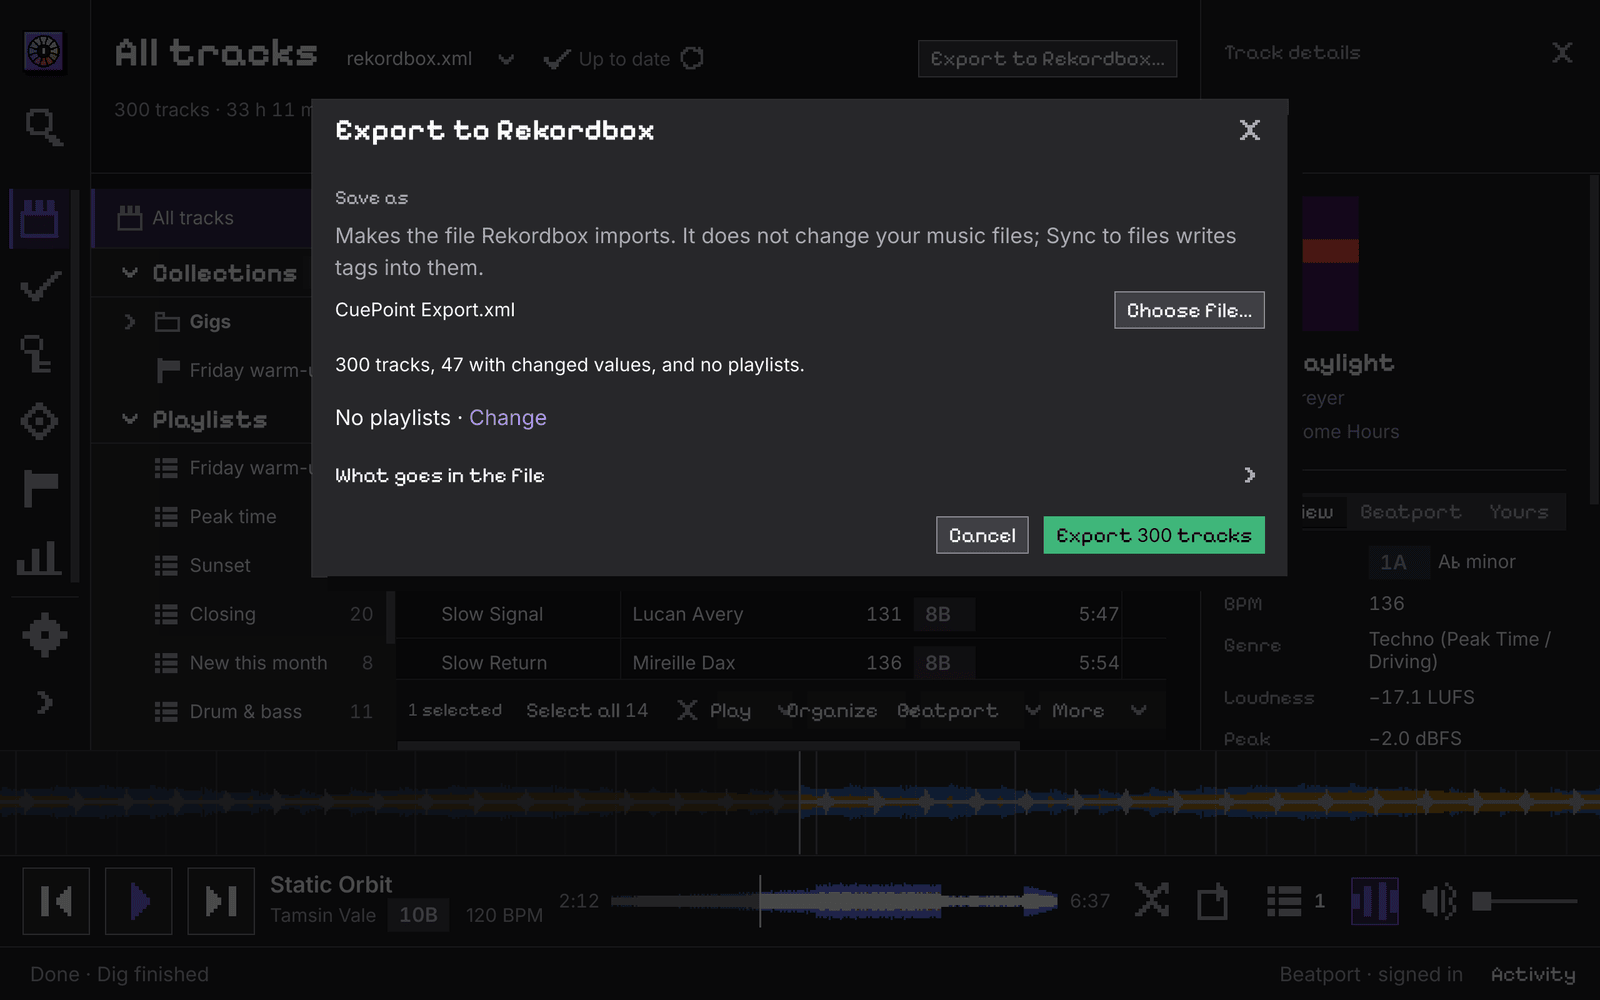
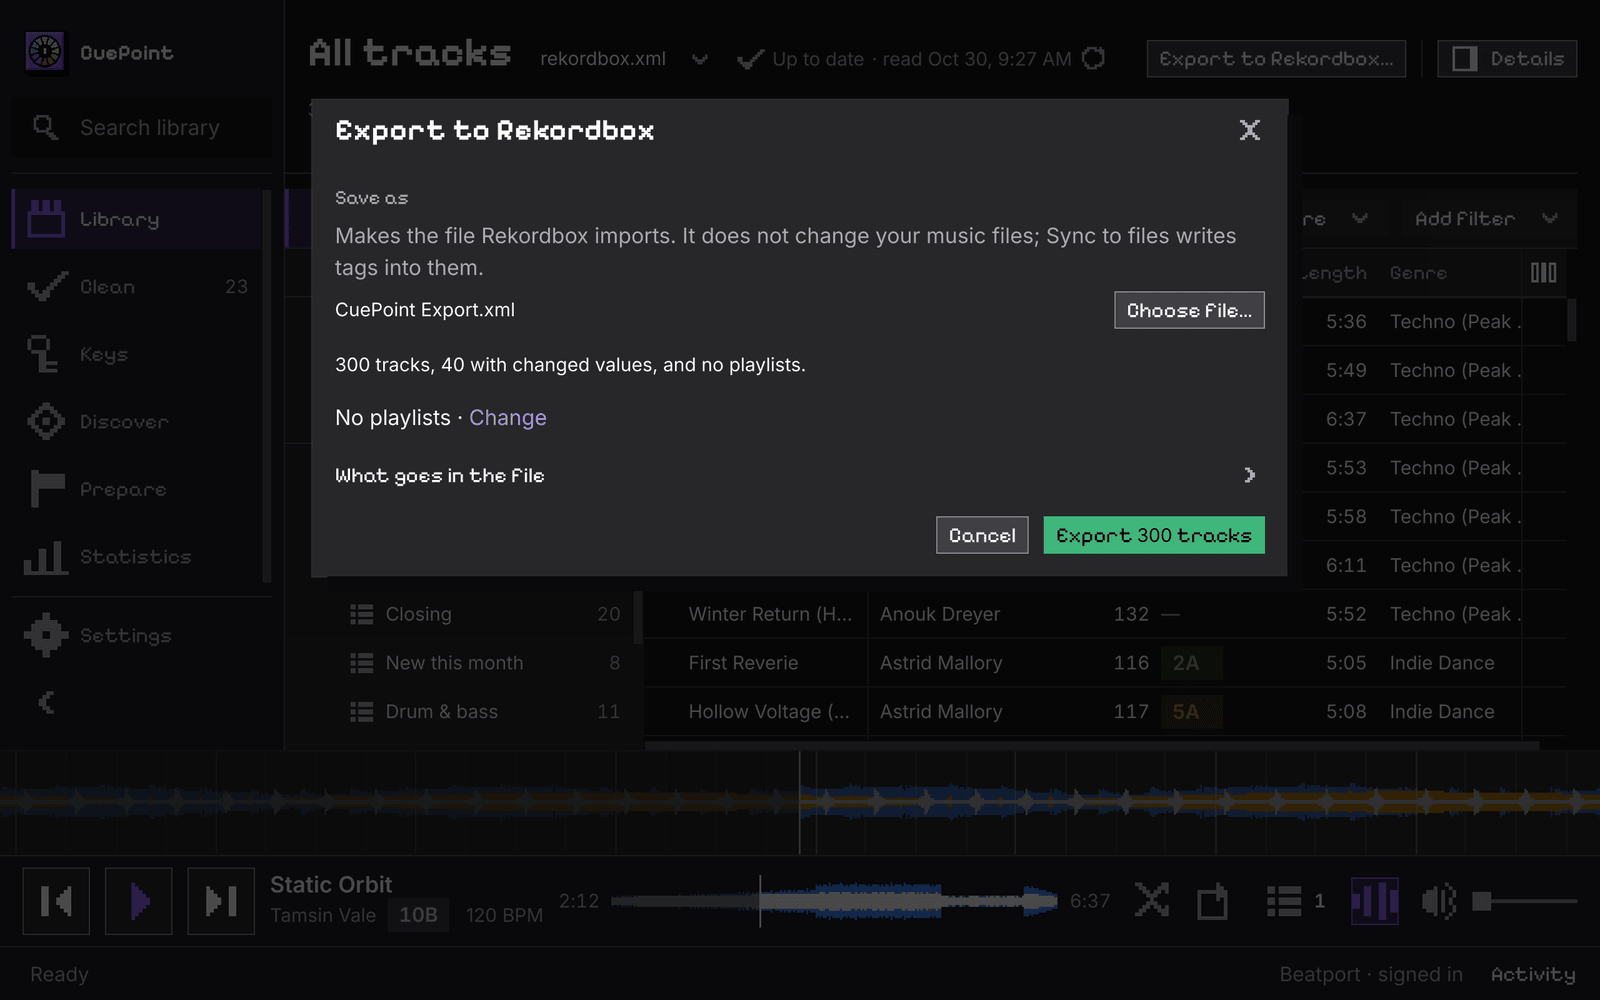
docs: retake the README pictures with Track details closed
Beside Track details, at the default window width, the selection bar squeezes its
four menu buttons into each other. The Library clip now plays a track and opens the
Camelot wheel from the player bar, and the Export and social preview pictures are
taken with the panel closed.

diff --git a/apps/desktop-electron/e2e/capture/readme.spec.ts b/apps/desktop-electron/e2e/capture/readme.spec.ts
@@ -465,6 +465,10 @@ test.describe("the README's pictures", () => {
       const grid = window.getByRole("grid", { name: "Library tracks" });
       const rows = grid.locator(".track-table__row");
       const details = window.getByRole("complementary", { name: "Track details" });
+      const closeDetails = async () => {
+        if (await details.isVisible()) await window.getByRole("button", { name: "Hide track details" }).first().click();
+        await expect(details).toBeHidden();
+      };
 
       await picture(window, "clip: a tour of the pages", async () => {
         await sidebar("expanded");
@@ -483,7 +487,8 @@ test.describe("the README's pictures", () => {
 
       let selected = "";
       await picture(window, "clip + still: the library, a search, a track and the wheel", async () => {
-        await sidebar("rail");
+        await sidebar("expanded");
+        await nav(window, "Library").click();
         await expect(rows.nth(5)).toBeVisible({ timeout: 30_000 });
         for (let i = 2; i < 12 && !selected; i += 1) {
           const key = (await rows.nth(i).locator('[data-column="key"]').innerText()).trim();
@@ -495,21 +500,26 @@ test.describe("the README's pictures", () => {
         await press(window, search);
         await search.pressSequentially(word, { delay: 110 });
         await window.waitForTimeout(900);
-        await press(window, titleCell(window, selected));
-        if (!(await details.isVisible())) await press(window, window.getByRole("button", { name: /^Details/ }).first());
-        await expect(details.locator("[data-testid=inspector-waveform] canvas")).toBeVisible({ timeout: 30_000 });
-        await window.waitForTimeout(1200);
-        const wheelButton = details.getByRole("button", { name: /^(Camelot wheel|Show .+ on the Camelot wheel)$/ }).first();
-        await press(window, wheelButton);
-        await expect(window.getByRole("dialog", { name: "Camelot wheel" })).toContainText(`Selected: ${selected}`, { timeout: 15_000 });
+        // a double-click plays the track; the key in the player bar opens the Camelot wheel on it.
+        // Track details stays closed in these pictures: beside it, at this window's width, the selection
+        // bar's four menu buttons are squeezed into each other (the owner's pick, 2026-10-30)
+        await glide(window, titleCell(window, selected));
+        await window.mouse.dblclick(at.x, at.y);
+        await closeDetails();
+        await expect(window.getByText(selected, { exact: true }).last()).toBeVisible();
+        await window.waitForTimeout(1800);
+        await press(window, window.getByRole("button", { name: /^Show .+ on the Camelot wheel$/ }).last());
+        const wheel = window.getByRole("dialog", { name: "Camelot wheel" });
+        await expect(wheel.locator("[data-lit]").first()).toBeVisible({ timeout: 15_000 });
         await window.waitForTimeout(2600);
         await stop();
-        await still(window, "wheel");
         await window.keyboard.press("Escape");
-        await expect(window.getByRole("dialog", { name: "Camelot wheel" })).toBeHidden();
+        await expect(wheel).toBeHidden();
+        await window.evaluate(() => (window as never as Bridge).cuepoint.player.pause()).catch(() => undefined);
         await titleCell(window, selected).click();
-        await expect(details.locator("[data-testid=inspector-waveform] canvas")).toBeVisible({ timeout: 30_000 });
+        await closeDetails();
         await still(window, "library");
+        await sidebar("rail");
       });
 
       await picture(window, "clip + still: Clean matches a playlist on Beatport and a match is checked", async () => {
@@ -606,6 +616,7 @@ test.describe("the README's pictures", () => {
 
       await picture(window, "still: Export to Rekordbox", async () => {
         await nav(window, "Library").click();
+        await closeDetails();
         await window.locator('[data-slot="library-header"]').getByRole("button", { name: "Export to Rekordbox…" }).click();
         const dialog = window.getByRole("dialog", { name: "Export to Rekordbox" });
         await expect(dialog.getByText(/\d+ tracks/).first()).toBeVisible({ timeout: 30_000 });

diff --git a/README.md b/README.md
@@ -74,7 +74,7 @@ Search every track, filter by key, BPM or genre, and see the cover, waveform, cu
 track in Track details. Keep your own **Collections** and **Smart Collections** beside Rekordbox's playlists.
 The **Camelot wheel** shows the selected track's key and the keys that mix with it.
 
-<img src=".github/readme/library.gif" alt="Searching the Library, opening a track in Track details, and opening the Camelot wheel on its key." width="100%">
+<img src=".github/readme/library.gif" alt="Searching the Library, playing a track with a double-click, and opening the Camelot wheel on its key from the player bar." width="100%">
 
 ### Keys: harmonic mixing on the Camelot wheel
 
